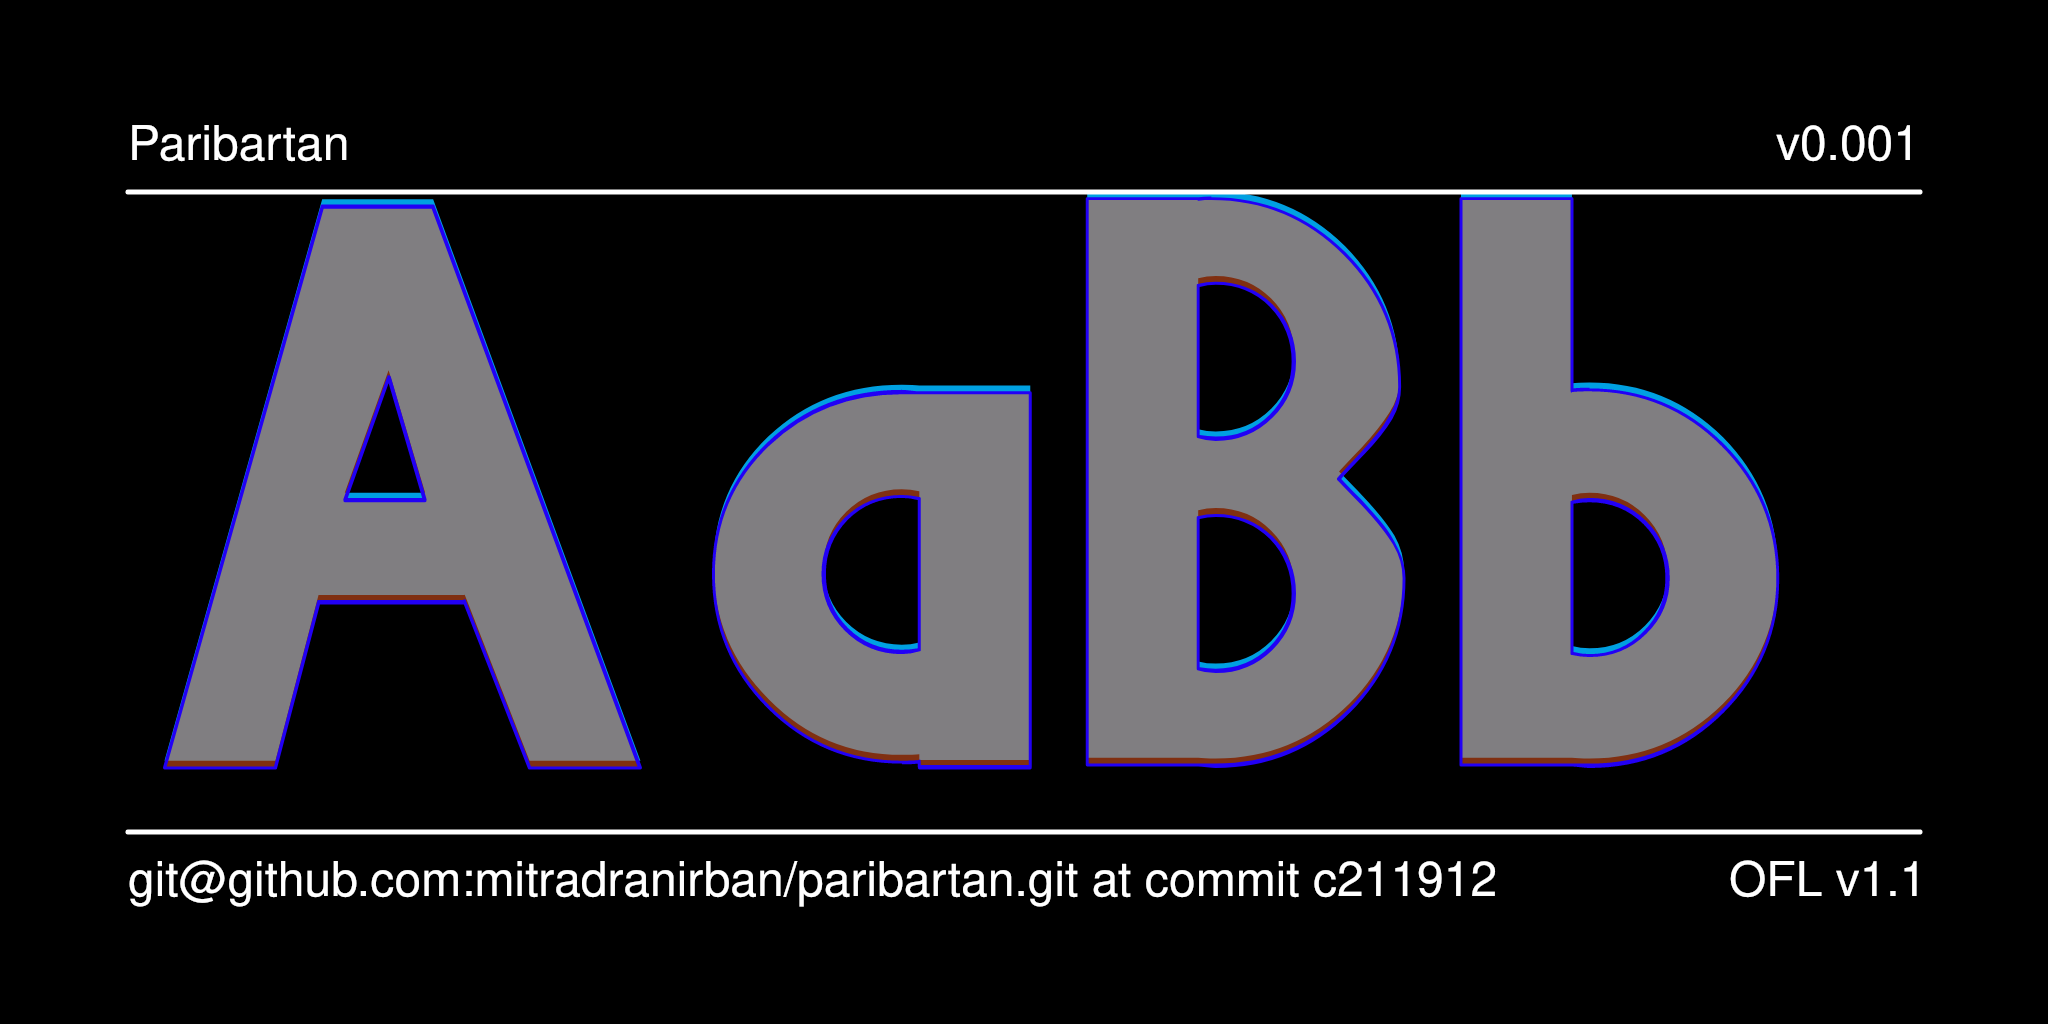
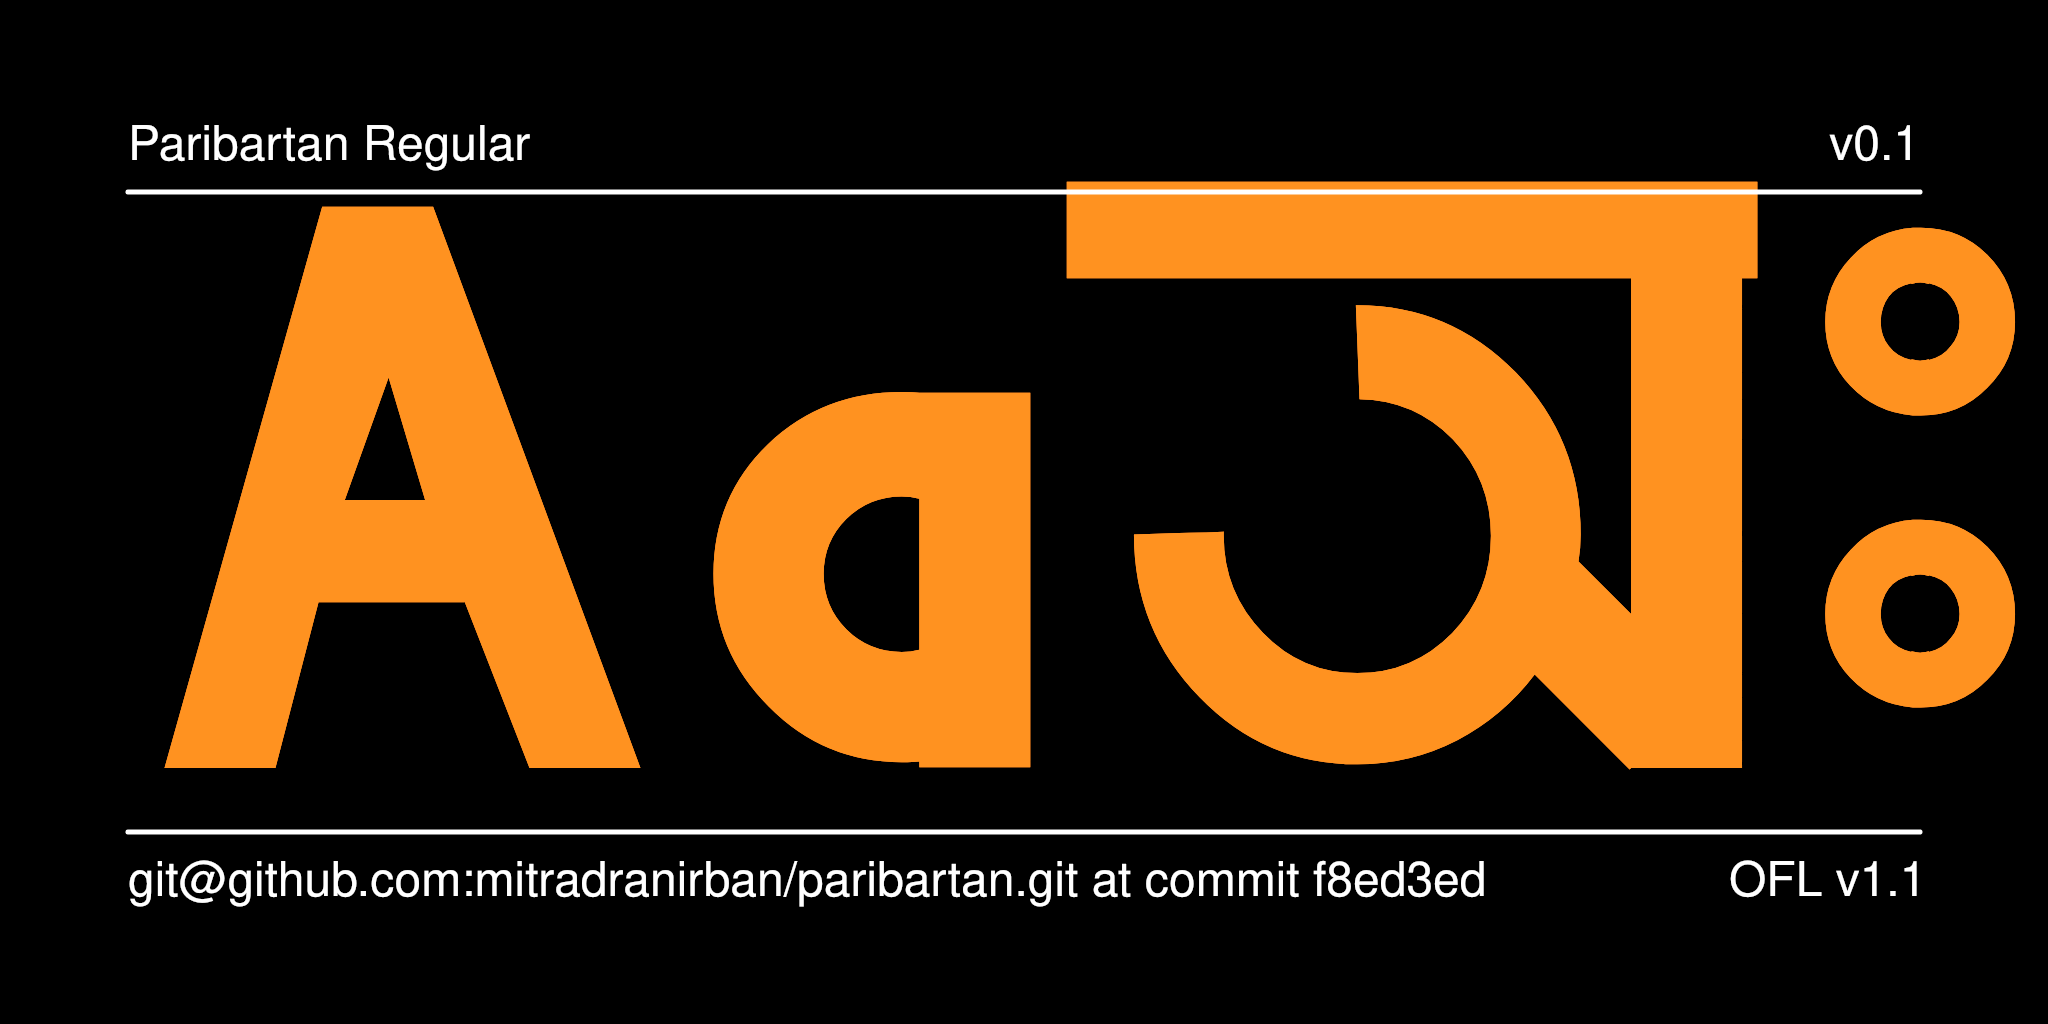
202502042020

diff --git a/scripts/index.html b/scripts/index.html
@@ -66,6 +66,20 @@
 				font-family: Paribartan;
 				font-palette: --green;
 			 }
+
+			 .mix1 {
+				font-family: Paribartan;
+				font-palette:  palette-mix(in lch, --blue 55%, --red 45%);
+			 }
+			 .mix2 {
+				font-family: Paribartan;
+				font-palette:  palette-mix(in lch, --orange 60%, --green 40%);
+			 }
+			 .mix3 {
+				font-family: Paribartan;
+				font-palette:  palette-mix(in lch, --gray 30%, --green 70%);
+			 }
+
 			 .shadow3{
 				font-family: Paribartan;
 				font-variation-settings: "SHDW" -50 "MASK" 10;
@@ -130,12 +144,15 @@
 		<div class="blue shadowchange"><h2>পরিবর্তন রঙীন টাইপফেস	</h2></div>
 		<p> Paribartan is a WIP variable color font created using open source tools </p> 
 		<p> It covers Latin, Extended Latin and Bangla (Bengali) characters</p>
-		<p> It has Five in-built color palettes </p>
+		<p> It has Five in-built color palettes 
 		<span class="orange"> Orange </span>,
 		<span class="red"> Red </span>,
 		<span class="gray"> Grey </span>,
 		<span class="green"> Green </span>, and
-		<span class="blue"> Blue </span></p>
+		<span class="blue"> Blue </span> or you can use
+		<span class="mix1"> any </span>
+		<span class="mix2"> mix </span>
+		<span class="mix3">in between</span> </p>
 		<p> You can also do <span class="colorchange shadow1"> Color Animation</span> using css. 
 
 		<p> It has 2 custom axes of <span class="shadow2">Shadow</span> and <span class="shadow3">Mask </span>.

diff --git a/documentation/image2.py b/documentation/image2.py
@@ -16,16 +16,16 @@ import argparse
 
 # Constants, these are the main "settings" for the image
 WIDTH, HEIGHT, MARGIN, FRAMES = 2048, 1024, 128, 1
-FONT_PATH = "fonts/variable/Paribartan-VF.ttf"
+FONT_PATH = "fonts/variable/Paribartan[MASK,SHDW].ttf"
 FONT_LICENSE = "OFL v1.1"
 AUXILIARY_FONT = "Helvetica"
 AUXILIARY_FONT_SIZE = 48
 
-LINE_ONE = "ABCDEFGHIJKLMNOPQ"
-LINE_TWO = "RSTUVWXYZ123456789"
-LINE_THREE = "abcdefghijklmnopqrstu"
-LINE_FOUR = "vwxyz,.;:!@#$%^&*(){}[]"
-BIG_TEXT_FONT_SIZE = 160
+LINE_ONE = "Würde gleichen unveräußerlichen"  
+LINE_TWO = "Considerând – Pieņemta pasludināta Ģenerālās"
+LINE_THREE = "যেহেতু মানব পরিবারের সকল সদস্যের"
+LINE_FOUR = "রাজনৈতিক অন্ততঃপক্ষে সমঝোতা,"
+BIG_TEXT_FONT_SIZE = 96
 BIG_TEXT_SIDE_MARGIN = MARGIN * 1
 BIG_TEXT_BOTTOM_MARGIN = MARGIN * 5.45
 

diff --git a/documentation/image1.py b/documentation/image1.py
@@ -16,12 +16,12 @@ import argparse
 
 # Constants, these are the main "settings" for the image
 WIDTH, HEIGHT, MARGIN, FRAMES = 2048, 1024, 128, 1
-FONT_PATH = "fonts/variable/Paribartan-VF.ttf"
+FONT_PATH = "fonts/variable/Paribartan[MASK,SHDW].ttf"
 FONT_LICENSE = "OFL v1.1"
 AUXILIARY_FONT = "Helvetica"
 AUXILIARY_FONT_SIZE = 48
 
-BIG_TEXT = "AaBb"
+BIG_TEXT = "Aaঅঃ"
 BIG_TEXT_FONT_SIZE = 730
 BIG_TEXT_SIDE_MARGIN = MARGIN * 1
 BIG_TEXT_BOTTOM_MARGIN = MARGIN * 2

diff --git a/README.md b/README.md
@@ -1,21 +1,19 @@
 # Paribartan Variable Bengali Font
 
 
-Paribartan is a Variable Multicolor Bengali or Bangla Font fully created using Open Source tools.
+Paribartan is a Work in Progress Variable Multicolor Bengali and Latin Font fully created using Open Source tools.
 
-It is a geometric Sans-Serif design in Latin glyphs and matching design in Bengali Glyphs.
+It has a geometric Sans-Serif design in Latin glyphs and matching design in Bengali Glyphs.
 
 ![Sample Image](documentation/image1.png)
-![Sample Image](documentation/Paribartan.gif)
+![Sample Image](documentation/image2.png)
 
 ## About
 
 This font is developed by Dr Anirban Mitra, amateur typographer and free software enthusiast
 
 ## Building
-
-Fonts are built automatically by GitHub Actions - take a look in the "Actions" tab for the latest build.
-
+ 
 If you want to build fonts manually on your own computer:
 
 * `make build` will produce font files.
